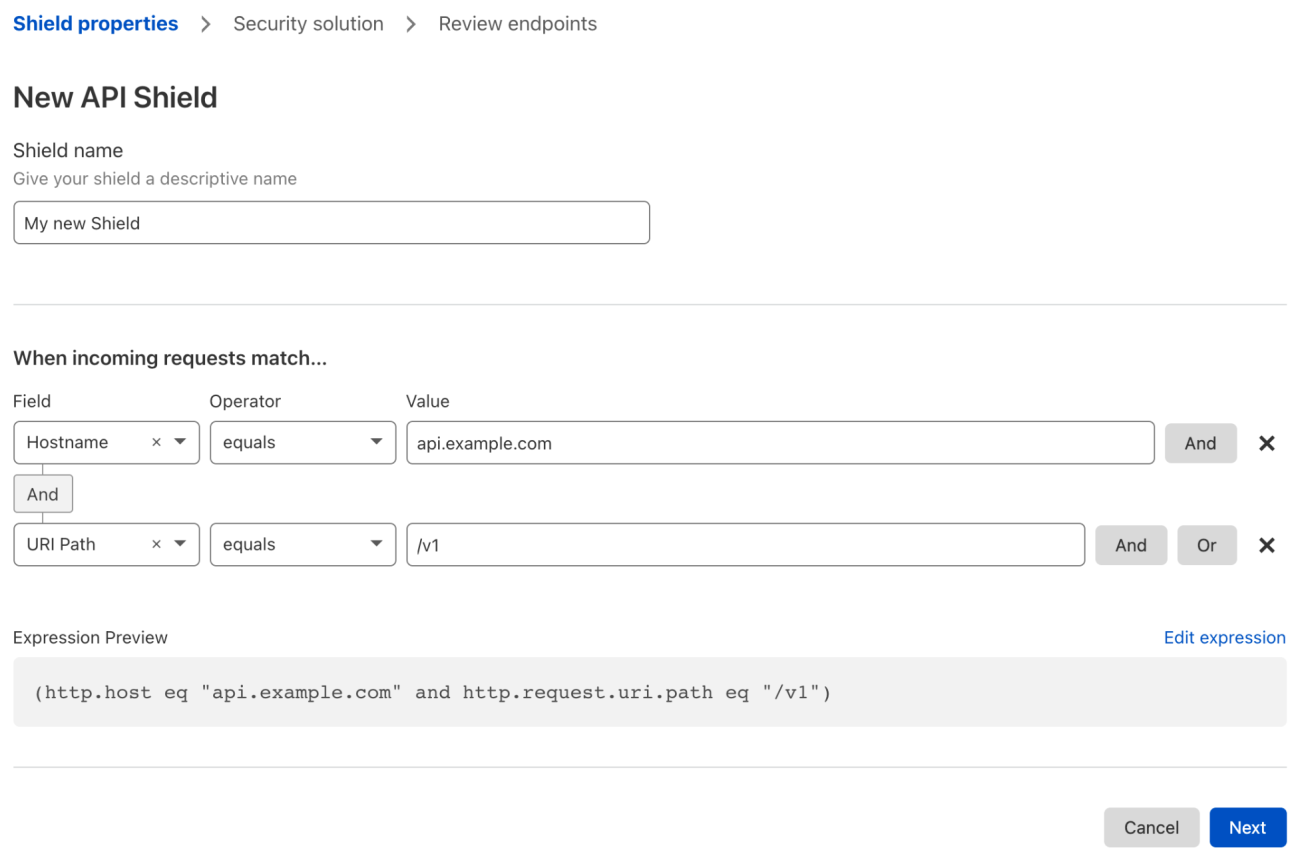
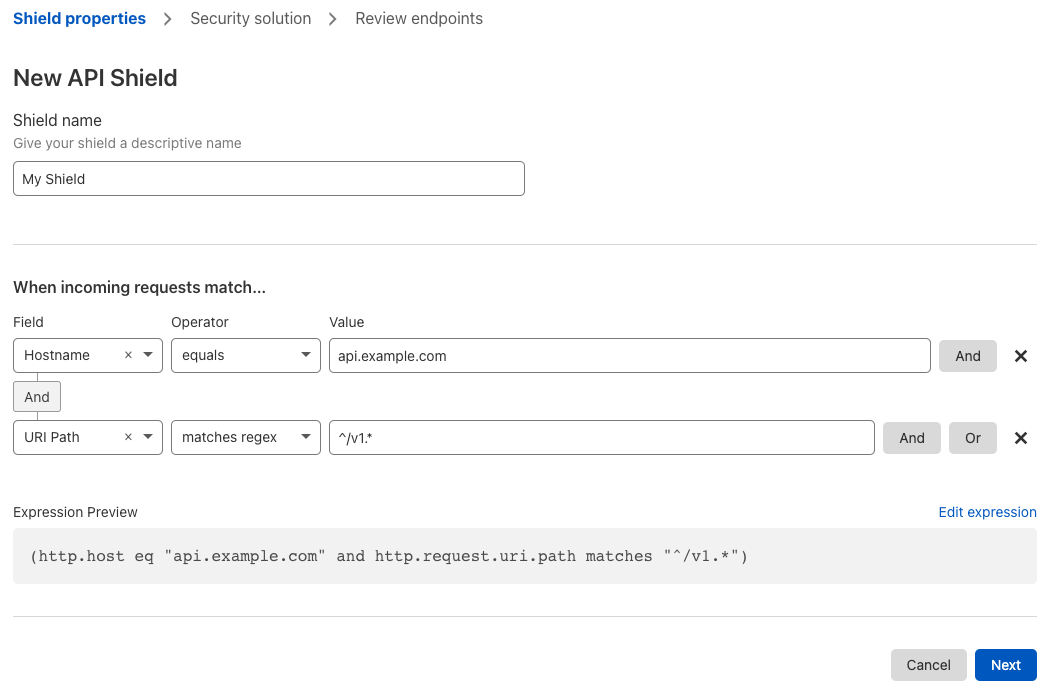
Update Schema Validation rule to use regex

diff --git a/products/firewall/src/content/cf-dashboard/configure-schema-validation.md b/products/firewall/src/content/cf-dashboard/configure-schema-validation.md
@@ -42,11 +42,13 @@ To configure Schema Validation in the Cloudflare dashboard, follow these steps:
 
 1. Configure the expression for the API Shield using the available request fields.
 
-    For example, if your API is available at `http://api.example.com/v1`, the expression must include a check for the _hostname_ field (which must be equal to `api.example.com`) and a check for the _URI path_ field (which must be equal to `/v1`).
+    For example, if your API is available at `http://api.example.com/v1`, the expression must include a check for the _Hostname_ field (which must be equal to `api.example.com`) and a check for the _URI Path_ field using a regular expression (which must match regex `^/v1.*`).
 
     <Aside type='warning' header='Important'>
 
-    To validate the hostname, you must include the _hostname_ field explicitly in the rule, even if the hostname value is in the schema file. Any hostname value present in the schema file will be ignored.
+    To validate the hostname, you must include the _Hostname_ field explicitly in the rule, even if the hostname value is in the schema file. Any hostname value present in the schema file will be ignored.
+
+    Regular expression support is a paid add-on in the Enterprise plan.
 
     </Aside>
 
